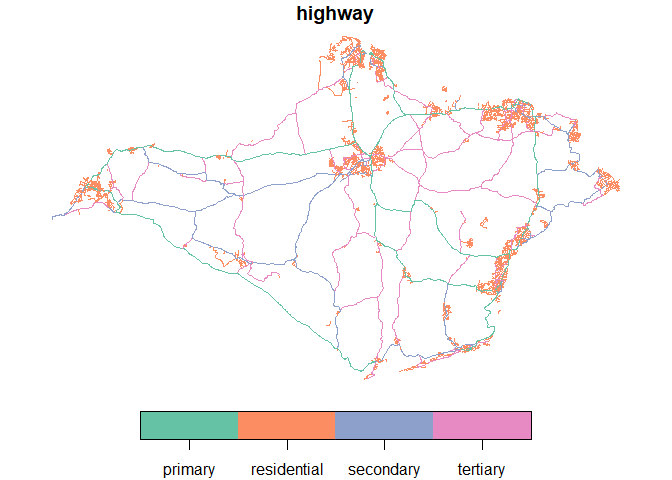
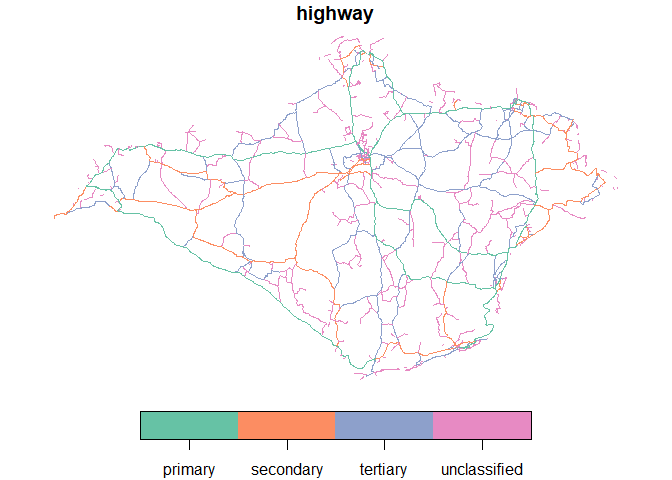
update README

diff --git a/README.md b/README.md
@@ -20,10 +20,10 @@ premier source of freely available, community created geographic data
 worldwide. We aim to enable you to extract it for data-driven work in
 the public interest.
 
-`osmextract` downloads, converts and imports bulk OSM data hosted by
-providers such as [Geofabrik GmbH](http://download.geofabrik.de) and
+`osmextract` finds, downloads, converts and imports bulk OSM data hosted
+by providers such as [Geofabrik GmbH](http://download.geofabrik.de) and
 [bbbike](https://download.bbbike.org/osm/). For information on
-alternatives and how to add them see the [providers
+alternative providers and how to add them see the [providers
 vignette](https://itsleeds.github.io/osmextract/articles/providers.html).
 
 ## Why osmextract?
@@ -55,7 +55,7 @@ downloaded in the compressed `.pbf` format and converted to the open
 standard `.gpkg` format. The download-and-conversion operation of the
 OSM extract associated to England takes approximately a few minutes, but
 this operation must be executed only once. The following code chunk is
-not evaluated:
+not evaluated.
 
 ``` r
 library(osmextract)
@@ -107,7 +107,7 @@ Load the package with:
 ``` r
 library(osmextract)
 #> Data (c) OpenStreetMap contributors, ODbL 1.0. https://www.openstreetmap.org/copyright.
-#> Check the package website, itsleeds.github.io/osmextract for more details.
+#> Check the package website, itsleeds.github.io/osmextract, for more details.
 ```
 
 To use alongside functionality in the `sf` package, we also recommend
@@ -127,7 +127,9 @@ The functions defined in this package may return a warning message like
 if the user is running an old version of GDAL (\<= 3.0.0) or PROJ (\<=
 6.0.0). See [here](https://github.com/r-spatial/sf/issues/1419) for more
 details. Nevertheless, every function should still work correctly.
-Please, raise a new issue if you find any odd behaviour.
+Please, raise [a new
+issue](https://github.com/ITSLeeds/osmextract/issues) if you find any
+odd behaviour.
 
 ## Basic usage
 
@@ -165,13 +167,13 @@ names(osm_lines) # default variable names
 #>  [6] "barrier"    "man_made"   "z_order"    "other_tags" "geometry"
 ```
 
-Once imported, you can use all the functions for data frames in base R
-and other packages. We can also use functions from the `sf` package for
+Once imported, you can use all functions for data frames in base R and
+other packages. You can also use functions from the `sf` package for
 spatial analysis and visualisation. Let’s plot all the major, secondary
 and residential roads, for example:
 
 ``` r
-ht = c("primary", "secondary", "residential", "tertiary") # highway types of interest
+ht = c("primary", "secondary", "tertiary", "unclassified") # highway types of interest
 osm_major_roads = osm_lines[osm_lines$highway %in% ht, ]
 plot(osm_major_roads["highway"], key.pos = 1)
 ```
@@ -183,8 +185,8 @@ The same steps can be used to get other OSM datasets (examples not run):
 ``` r
 malta = oe_get("Malta", quiet = TRUE)
 andorra = oe_get("Andorra", extra_tags = "ref")
-leeds <- oe_get("Leeds", provider = "bbbike")
-goa <- oe_get("Goa", provider = "openstreetmap_fr")
+leeds <- oe_get("Leeds")
+goa <- oe_get("Goa", query = "SELECT highway, geometry FROM 'lines'")
 ```
 
 If the input place does not match any of the existing names in the
